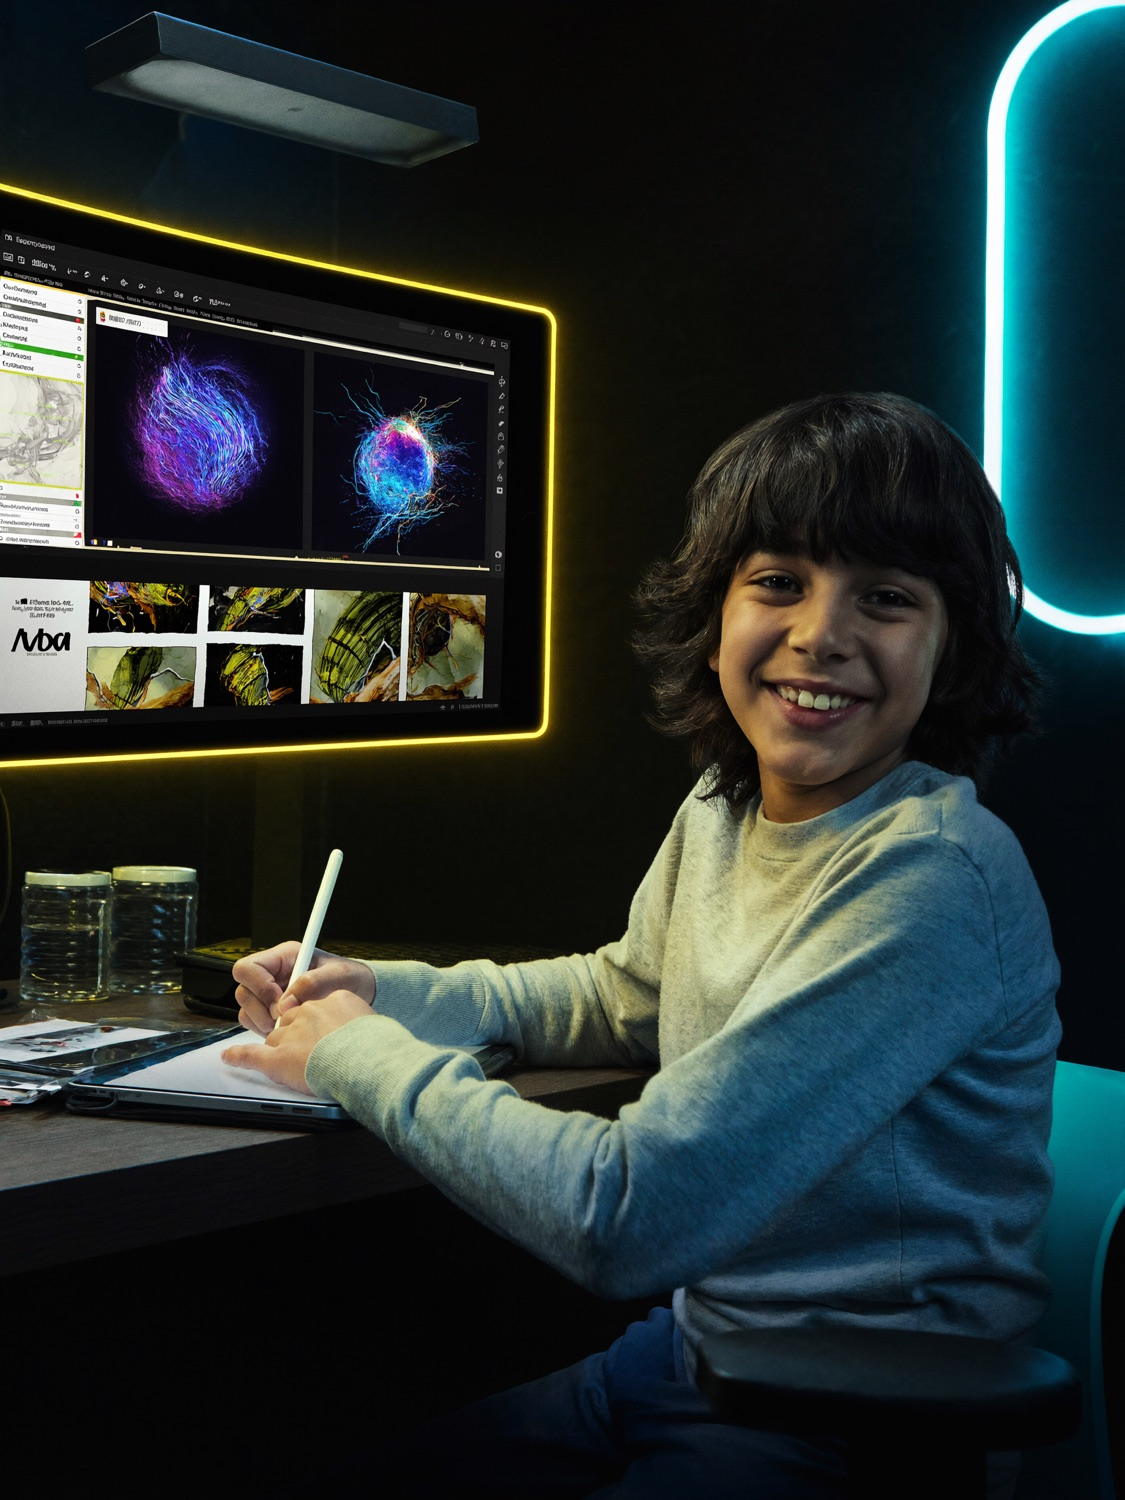
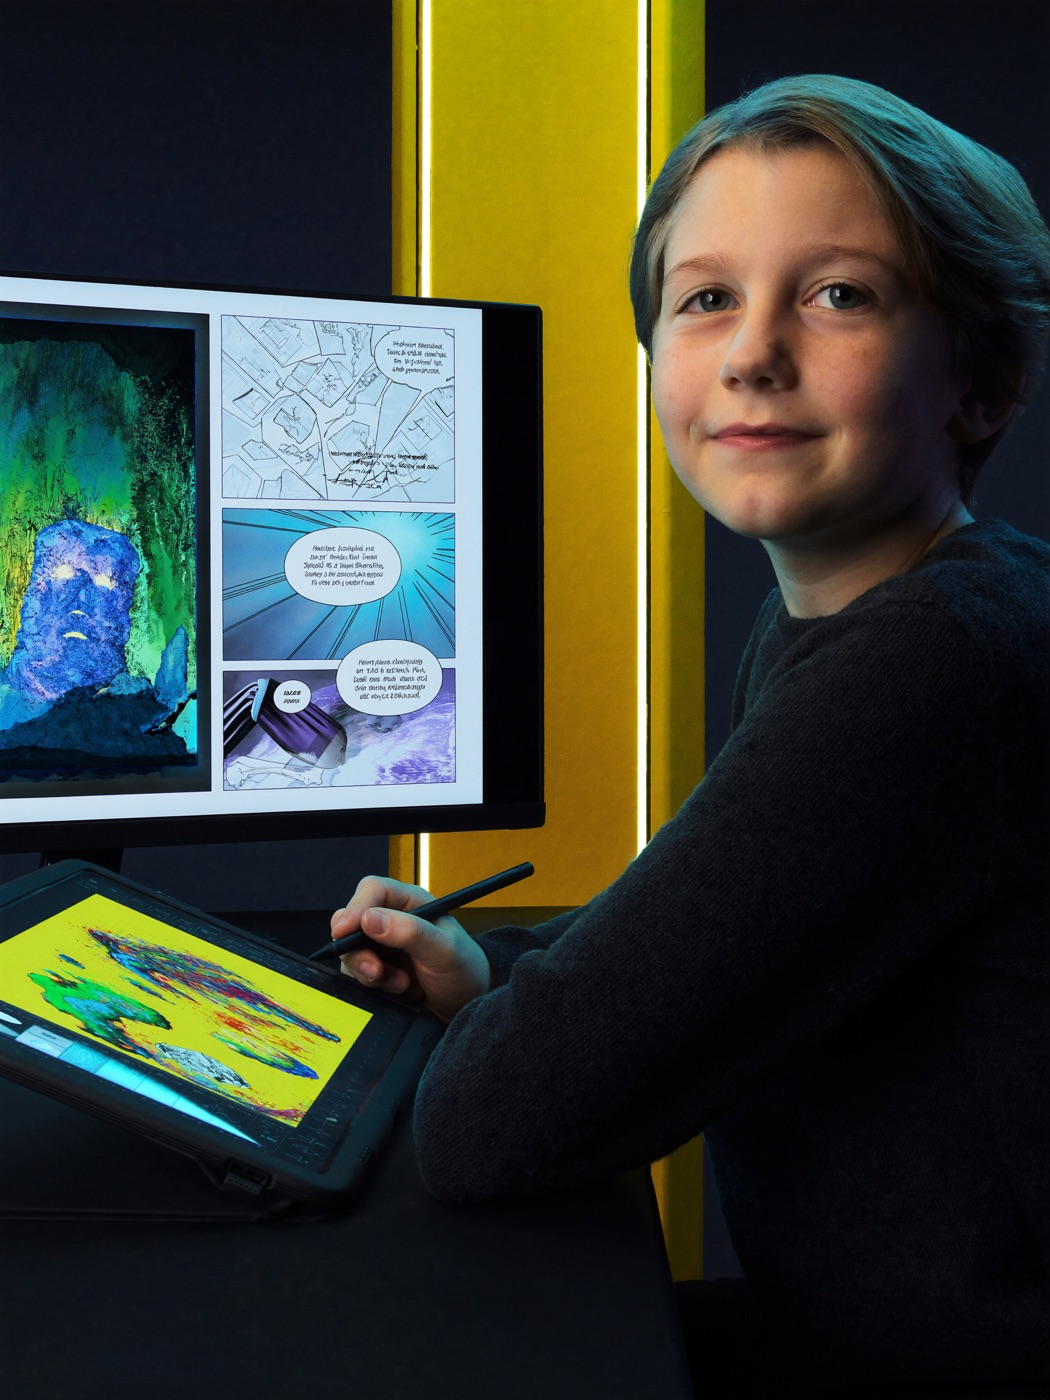
fix: европейские дети во всех дверях, ровная высота карточек, hero без серой полосы; видео убрано (статичные фото)

diff --git a/index.html b/index.html
@@ -8,7 +8,7 @@
 <meta property="og:title" content="Антишкола — лето, после которого ребёнок заговорил, создал и вырвался вперёд">
 <meta property="og:description" content="Английский и испанский в любимых играх, онлайн-лагерь по ИИ, билингвальная школа. Бесплатный урок, промокод POLINA −10%.">
 <meta property="og:type" content="website">
-<meta property="og:image" content="assets/img/og.jpg">
+<meta property="og:image" content="assets/img/hero-kids.jpg">
 <meta name="theme-color" content="#0a0f12">
 <link rel="preconnect" href="https://fonts.googleapis.com">
 <link rel="preconnect" href="https://fonts.gstatic.com" crossorigin>
@@ -52,7 +52,7 @@
 <!-- HERO -->
 <section class="hero" id="hero">
   <canvas id="hero-canvas"></canvas>
-  <figure class="hero-photo"><img src="assets/img/hero-kids.png" alt="Счастливые дети учатся онлайн в Антишколе" fetchpriority="high"></figure>
+  <figure class="hero-photo"><img src="assets/img/hero-kids.jpg" alt="Счастливые дети учатся онлайн в Антишколе" fetchpriority="high"></figure>
   <div class="wrap">
     <div class="hero-eyebrow">
       <span class="chip live">Лето 2026</span>
@@ -161,7 +161,7 @@
               </div>
             </div>
             <div class="visual" data-fx="m">
-              <img src="assets/img/door-play.png" alt="Ребёнок играет с тьютором-носителем в видеоигре" loading="lazy">
+              <img src="assets/img/door-play.jpg" alt="Ребёнок играет с тьютором-носителем в видеоигре" loading="lazy">
             </div>
           </div>
         </article>
@@ -186,7 +186,7 @@
                 <a class="btn btn-ghost" href="#final" data-magnetic>Забронировать смену →</a>
               </div>
             </div>
-            <div class="visual" data-fx="y"><img src="assets/img/door-ai.png" alt="Ребёнок создаёт проект с искусственным интеллектом" loading="lazy"></div>
+            <div class="visual" data-fx="y"><img src="assets/img/door-ai.jpg" alt="Ребёнок создаёт проект с искусственным интеллектом" loading="lazy"></div>
           </div>
         </article>
 
@@ -209,7 +209,7 @@
                 <a class="btn btn-ghost" href="#final" data-magnetic>Диагностический урок →</a>
               </div>
             </div>
-            <div class="visual" data-fx="w"><img src="assets/img/door-speak.png" alt="Ребёнок уверенно говорит на онлайн-уроке с носителем" loading="lazy"></div>
+            <div class="visual" data-fx="w"><img src="assets/img/door-speak.jpg" alt="Ребёнок уверенно говорит на онлайн-уроке с носителем" loading="lazy"></div>
           </div>
         </article>
 

diff --git a/styles/main.css b/styles/main.css
@@ -103,9 +103,9 @@ h3,h4{font-family:"Manrope",sans-serif;font-weight:700;line-height:1.05;letter-s
 /* ---------- Hero (LIGHT, like real site) ---------- */
 .hero{position:relative;min-height:100svh;display:flex;align-items:center;padding-top:120px;padding-bottom:50px;overflow:hidden;background:var(--paper)}
 #hero-canvas{display:none}
-.hero-photo{position:absolute;top:0;right:0;bottom:0;width:42%;margin:0;z-index:1;overflow:hidden;border-left:1px solid var(--line)}
+.hero-photo{position:absolute;top:0;right:0;bottom:0;width:46%;margin:0;z-index:1;overflow:hidden}
 .hero-photo img{width:100%;height:100%;object-fit:cover;object-position:center 28%}
-.hero-photo::after{content:"";position:absolute;inset:0;background:linear-gradient(90deg,var(--paper) 0%,transparent 32%)}
+.hero-photo::after{content:"";position:absolute;inset:0;background:linear-gradient(90deg,var(--paper) 0%,var(--paper) 6%,transparent 42%)}
 .hero .wrap{position:relative;z-index:2;width:100%}
 .hero-eyebrow{display:flex;gap:10px;flex-wrap:wrap;align-items:center;margin-bottom:26px}
 .chip{font-family:"Manrope";font-size:.72rem;font-weight:700;letter-spacing:.14em;text-transform:uppercase;
@@ -165,12 +165,12 @@ h3,h4{font-family:"Manrope",sans-serif;font-weight:700;line-height:1.05;letter-s
 .doors-prog button.on{color:#0a0f12;background:var(--yellow);border-color:var(--yellow)}
 .pin-wrap{position:relative}
 .door-track{display:flex;width:300%}
-.door{width:100vw;max-width:100%;flex:0 0 33.333%;padding:10px 6px}
-.door-card{position:relative;overflow:hidden;border:1px solid var(--ink-line);min-height:560px;
+.door{width:100vw;max-width:100%;flex:0 0 33.333%;padding:10px 6px;display:flex}
+.door-card{position:relative;overflow:hidden;border:1px solid var(--ink-line);flex:1;min-height:600px;
   display:grid;grid-template-columns:1.04fr .96fr;background:var(--ink-2)}
 .door-card .meta{padding:clamp(28px,3.4vw,50px);display:flex;flex-direction:column;justify-content:space-between;position:relative;z-index:2}
 .door-card .visual{position:relative;overflow:hidden;background:var(--ink-3);border-left:1px solid var(--ink-line)}
-.door-card .visual img{width:100%;height:100%;object-fit:cover}
+.door-card .visual img,.door-card .visual video{width:100%;height:100%;object-fit:cover;display:block}
 .door-num{font-family:"Manrope";font-size:.78rem;letter-spacing:.18em;text-transform:uppercase;font-weight:700}
 .door-kicker{font-family:"Manrope";font-weight:700;font-size:clamp(2.2rem,4vw,3.4rem);text-transform:uppercase;line-height:.92;margin:12px 0 6px;letter-spacing:-.02em;color:#fff}
 .door .tag{font-size:.92rem;color:#aeb6bf;font-weight:600}

diff --git a/js/main.js b/js/main.js
@@ -176,15 +176,16 @@
     // hero photo subtle parallax + scale
     const hp = $('.hero-photo img');
     if (hp) gsap.to(hp, { yPercent: 12, ease: 'none', scrollTrigger: { trigger: '.hero', start: 'top top', end: 'bottom top', scrub: true } });
-    // door images clip reveal as they enter
-    $$('.door-card .visual img').forEach(img => {
-      gsap.fromTo(img, { clipPath: 'inset(0 0 100% 0)', scale: 1.15 },
+    // door media clip reveal as they enter
+    $$('.door-card .visual img, .door-card .visual video').forEach(m => {
+      gsap.fromTo(m, { clipPath: 'inset(0 0 100% 0)', scale: 1.12 },
         { clipPath: 'inset(0 0 0% 0)', scale: 1, duration: 1.1, ease: 'power3.out',
-          scrollTrigger: { trigger: img.closest('.door'), start: 'top 80%', once: true } });
+          scrollTrigger: { trigger: m.closest('.door'), start: 'top 80%', once: true } });
     });
-    // bridge / lead big lines fade-rise handled by reveal; add parallax to door visuals
+    // subtle parallax on door visuals
     $$('.door-card .visual').forEach(v => {
-      gsap.fromTo(v.querySelector('img'), { yPercent: -6 }, { yPercent: 6, ease: 'none',
+      const m = v.querySelector('img, video'); if (!m) return;
+      gsap.fromTo(m, { yPercent: -5 }, { yPercent: 5, ease: 'none',
         scrollTrigger: { trigger: v, start: 'top bottom', end: 'bottom top', scrub: true } });
     });
   }
